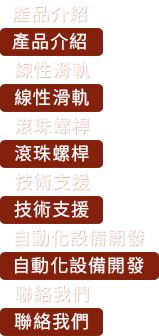
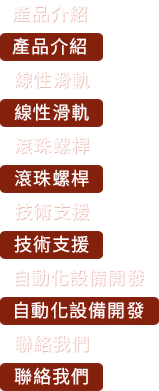
主選單上下間距修改 #20140922

diff --git a/css/xuemain_201409.css b/css/xuemain_201409.css
@@ -99,17 +99,17 @@ nav li{
 	background:url(../images/bg_nav.png) no-repeat}
 .nav_01, .nav_02, .nav_03, .nav_04, .nav_05, .nav_06{ width:103px}	
 .nav_01{ background-position: 0 0}
-.nav_01:hover, .nav_01.navin{ background-position: 0 -28px}
-.nav_02{ background-position: 0 -56px}
-.nav_02:hover, .nav_02.navin{ background-position: 0 -84px}
-.nav_03{ background-position: 0 -112px}
-.nav_03:hover, .nav_03.navin{ background-position: 0 -140px}
-.nav_04{ background-position: 0 -168px}
-.nav_04:hover, .nav_04.navin{ background-position: 0 -196px}
-.nav_05{ width:159px; background-position: 0 -224px}
-.nav_05:hover, .nav_05.navin{ background-position: 0 -252px}
-.nav_06{ background-position: 0 -280px}
-.nav_06:hover, .nav_06.navin{ background-position: 0 -308px}
+.nav_01:hover, .nav_01.navin{ background-position: 0 -33px}
+.nav_02{ background-position: 0 -66px}
+.nav_02:hover, .nav_02.navin{ background-position: 0 -99px}
+.nav_03{ background-position: 0 -132px}
+.nav_03:hover, .nav_03.navin{ background-position: 0 -165px}
+.nav_04{ background-position: 0 -198px}
+.nav_04:hover, .nav_04.navin{ background-position: 0 -231px}
+.nav_05{ width:159px; background-position: 0 -264px}
+.nav_05:hover, .nav_05.navin{ background-position: 0 -297px}
+.nav_06{ background-position: 0 -330px}
+.nav_06:hover, .nav_06.navin{ background-position: 0 -363px}
 
 /* 2.3 完美底部布局*/
 html, body, #wrap {height: 100%}

diff --git a/products/linear-guideway/MSR.html b/products/linear-guideway/MSR.html
@@ -135,7 +135,7 @@
                     <div class="download">
                        <h4>技術文件</h4>
                        <ul>
-                       	 <li><a href="../../pdf/MSR.pdf" title="PDF 規格型錄下載" rel="external">PDF 規格型錄</a></li>
+                       	 <li><a href="../../pdf/linear-guideway/MSR.pdf" title="PDF 規格型錄下載" rel="external">PDF 規格型錄</a></li>
                          <li><a href="../../cad/linear-guideway/MSR.rar" title="CAD圖檔下載" rel="external">CAD 圖檔</a></li>
                        </ul>
                     </div>
